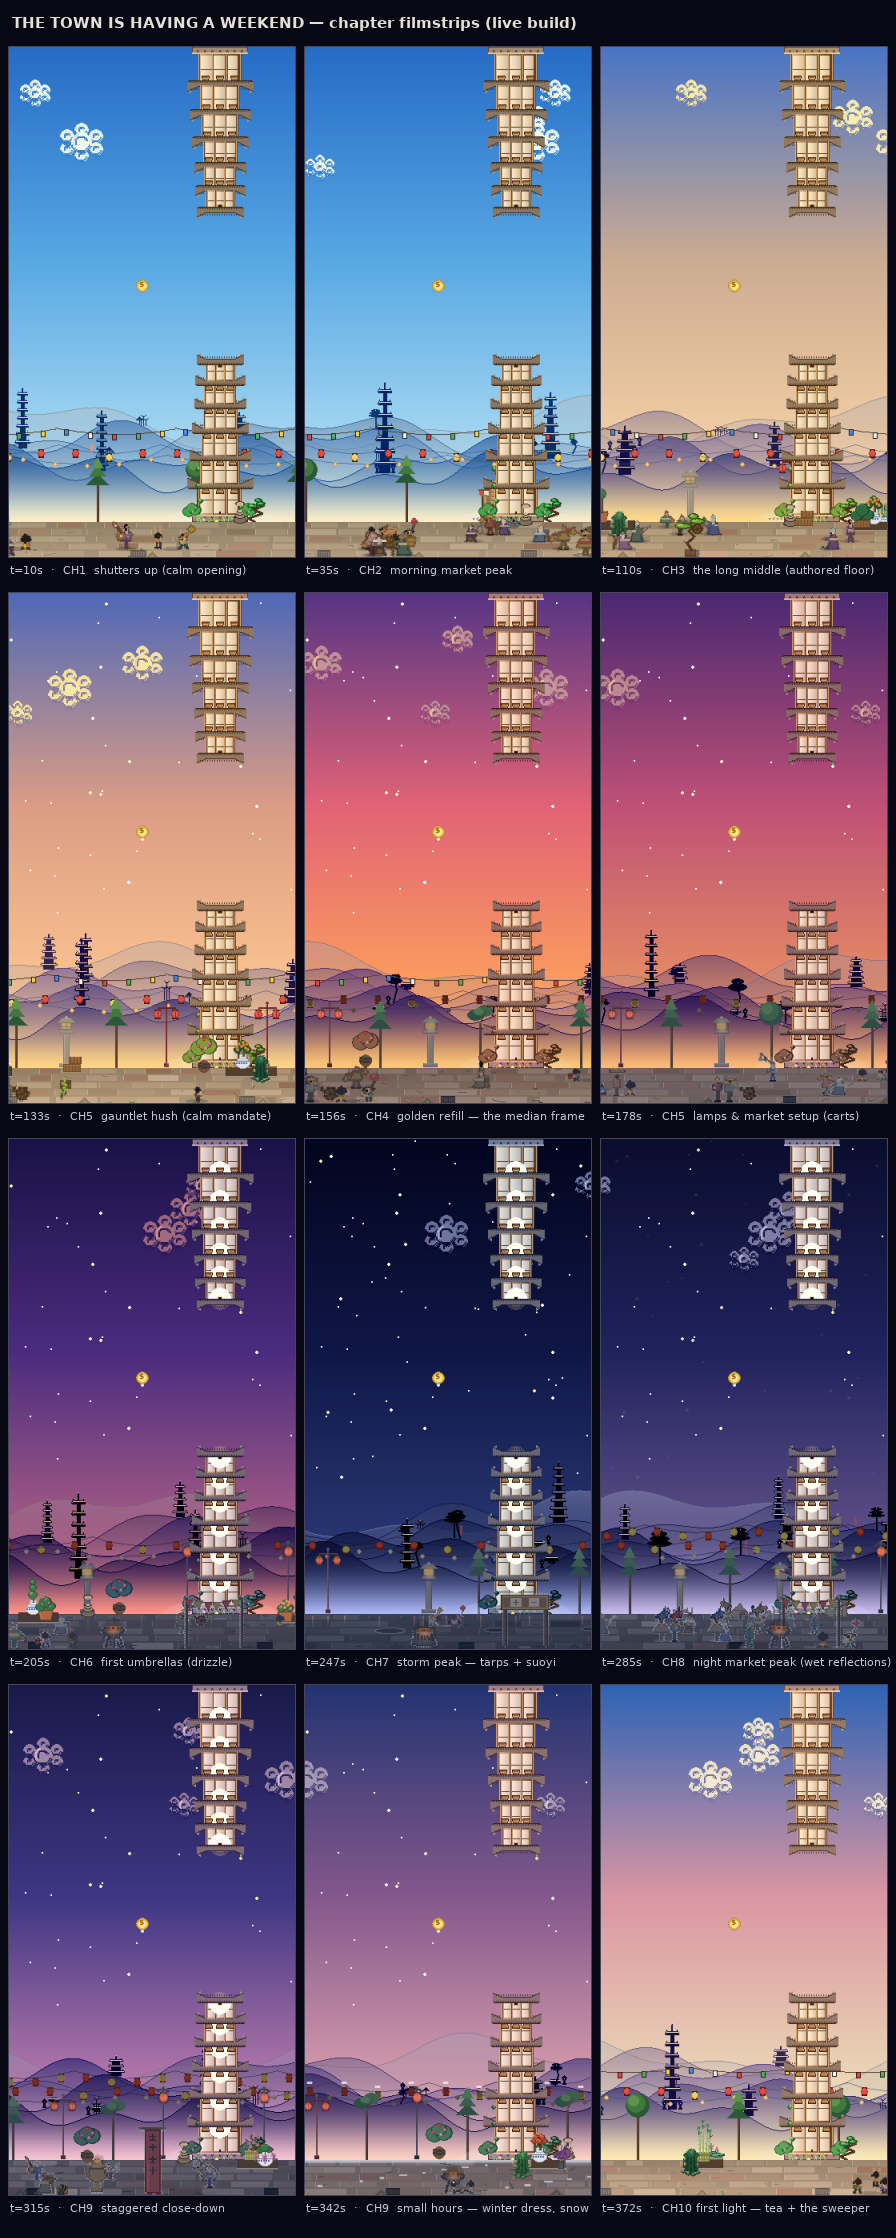
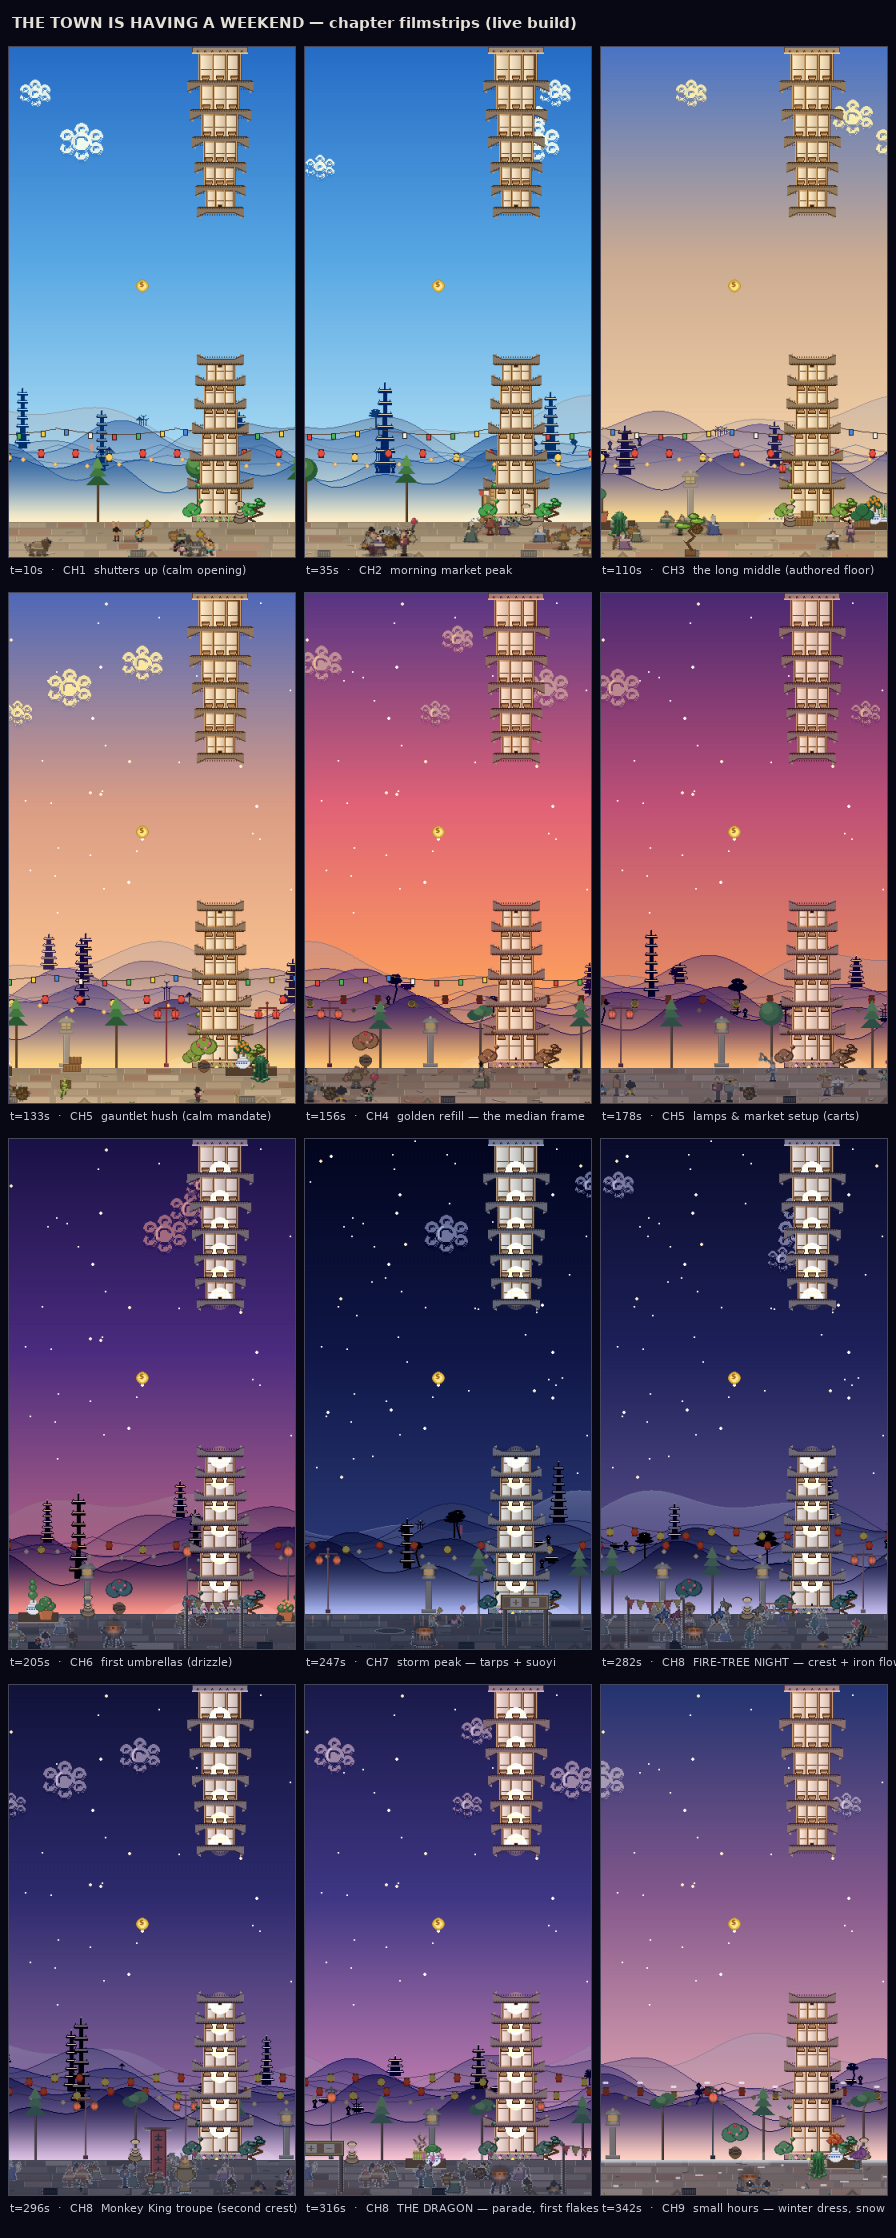
Filmstrip checkpoints follow the festival: iron flower, troupe, dragon
Claude-Session: https://claude.ai/code/session_01Kj5s52r3By6kkXz6gW43nG

diff --git a/tools/weekend_filmstrips.py b/tools/weekend_filmstrips.py
@@ -37,10 +37,10 @@ CHECKPOINTS = [
     (178.0, "CH5  lamps & market setup (carts)", {}),
     (205.0, "CH6  first umbrellas (drizzle)", {}),
     (247.0, "CH7  storm peak — tarps + suoyi", {}),
-    (285.0, "CH8  night market peak (wet reflections)", {}),
-    (315.0, "CH9  staggered close-down", {}),
+    (282.0, "CH8  FIRE-TREE NIGHT — crest + iron flower", {}),
+    (296.0, "CH8  Monkey King troupe (second crest)", {}),
+    (316.0, "CH8  THE DRAGON — parade, first flakes", {}),
     (342.0, "CH9  small hours — winter dress, snow", {}),
-    (372.0, "CH10 first light — tea + the sweeper", {}),
 ]
 
 
